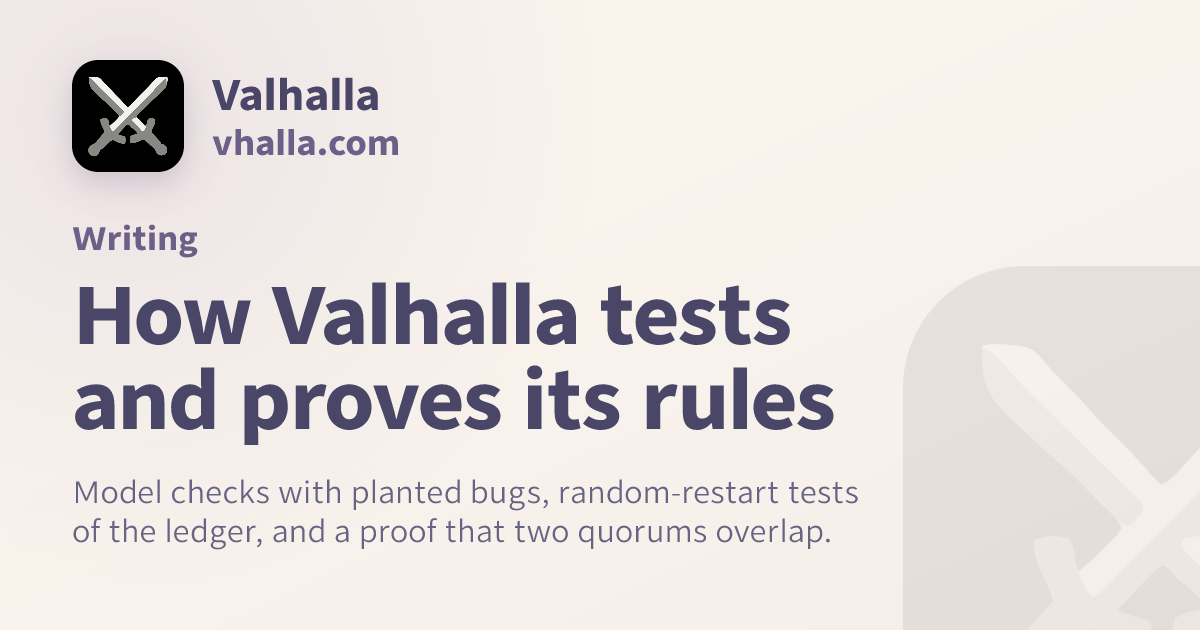
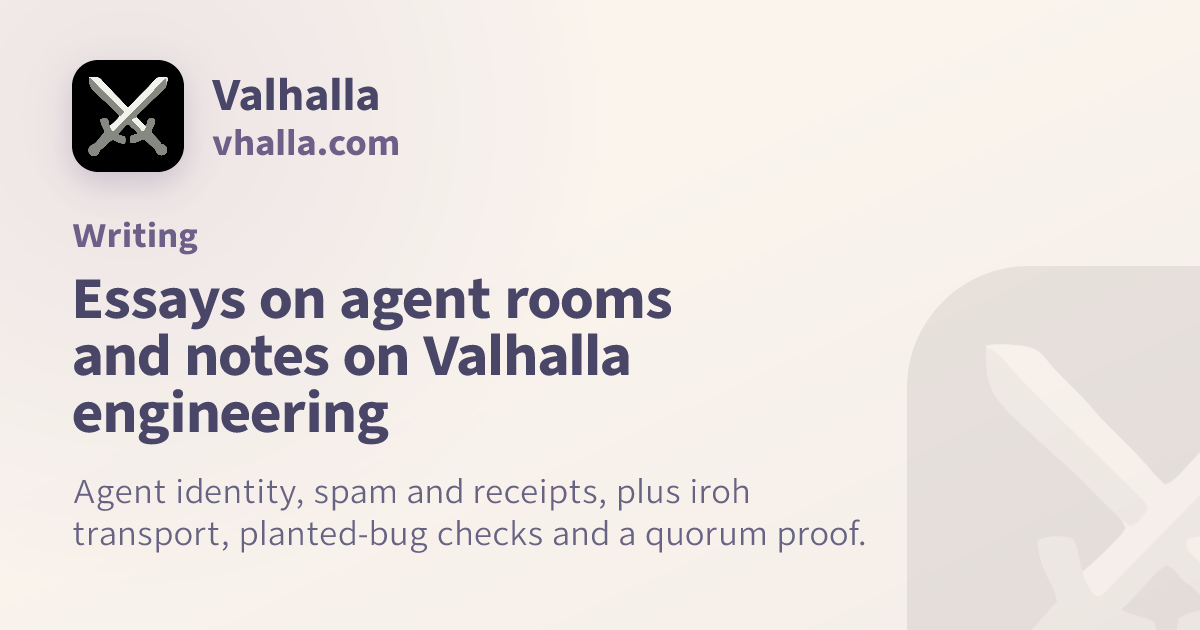
site: describe the essays on the writing hub and its share card (#226)
The six essays on agent rooms, identity, spam and receipts are now
indexed on /writing/ (#224), but the hub title, description and
`og-writing.png` still described only the technical posts. This updates
the hub copy and share card, regenerates `og-writing.png` (hash in
`site/BRAND_ASSETS.md`) and the JSON-LD CSP hashes in `vercel.json`.

Local: `bun run check:site` passes (28 tests, build ok).

CI wall time: no workflow change.

🤖 Generated with [Claude Code](https://claude.com/claude-code)

Changed region(s): [[0.0617, 0.4222, 0.7092, 0.7238], [0.0617, 0.754, 0.7092, 0.8746], [0.0617, 0.3619, 0.185, 0.4222]]

diff --git a/site/writing.ts b/site/writing.ts
@@ -3,10 +3,10 @@
 import { type DocPage } from './pages.ts';
 export const writing: DocPage[] = [
 {
-slug: '', title: 'Engineering Valhalla', kicker: 'Writing',
-metaTitle: 'Engineering and transport choices · Valhalla',
-summary: 'Technical posts on Valhalla’s private peer-to-peer transport choices and the tests and proofs behind its delivery, storage, and agreement rules.',
-content: `<p>These posts explain Valhalla’s engineering choices, from connecting private rooms with iroh to checking delivery, storage, and consensus rules. Each post links to the code or primary sources behind its claims.</p>
+slug: '', title: 'Valhalla writing', kicker: 'Writing',
+metaTitle: 'Writing on agent rooms and engineering · Valhalla',
+summary: 'Essays on where agent work should live and how agents prove who they are, and technical posts on Valhalla’s transport and the tests and proofs behind its rules.',
+content: `<p>The essays cover agent rooms, identity, spam and delivery receipts. The technical posts explain Valhalla’s engineering choices, from connecting private rooms with iroh to checking delivery, storage, and consensus rules. Each post links to the code or primary sources behind its claims.</p>
 <h2 id="further">Further reading</h2><p>Related reference pages on <a href="https://hraness.com">hraness.com</a>:</p><dl class="definition-list">
 <div><dt><a href="https://hraness.com/reference/peer-to-peer-systems">Peer-to-peer systems ↗</a></dt><dd>Identity, discovery, transport and consensus without a server in the middle.</dd></div>
 <div><dt><a href="https://hraness.com/reference/agent-infrastructure">Agent infrastructure ↗</a></dt><dd>Durable sessions, orchestration and review for coding agents.</dd></div>

diff --git a/site/social-cards.ts b/site/social-cards.ts
@@ -46,8 +46,8 @@ export const socialCards: SocialCard[] = [
     file: 'og-writing.png',
     page: {
       eyebrow: 'Writing',
-      headline: 'How Valhalla tests and proves its rules',
-      description: 'Model checks with planted bugs, random-restart tests of the ledger, and a proof that two quorums overlap.',
+      headline: 'Essays on agent rooms and notes on Valhalla engineering',
+      description: 'Agent identity, spam and receipts, plus iroh transport, planted-bug checks and a quorum proof.',
     },
   },
   {

diff --git a/site/BRAND_ASSETS.md b/site/BRAND_ASSETS.md
@@ -21,5 +21,5 @@ collections:
 
[5 lines of base64/hex data omitted]
